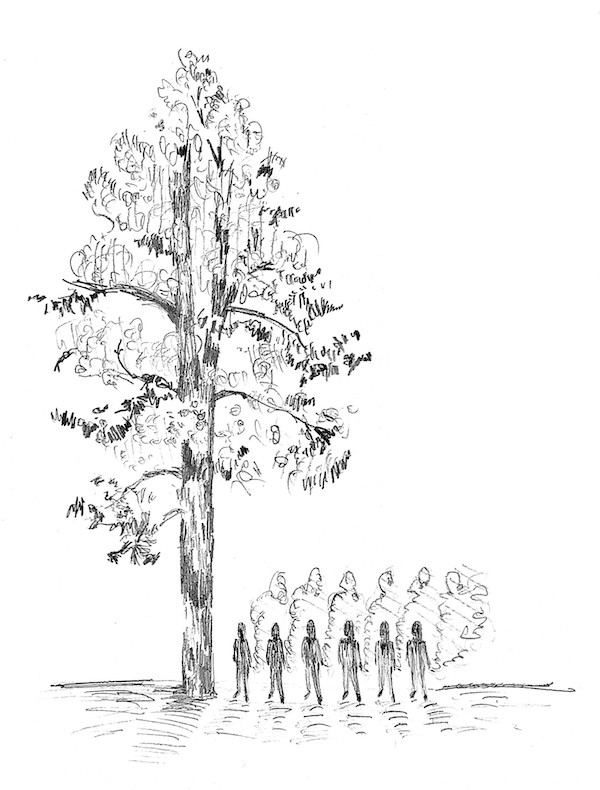
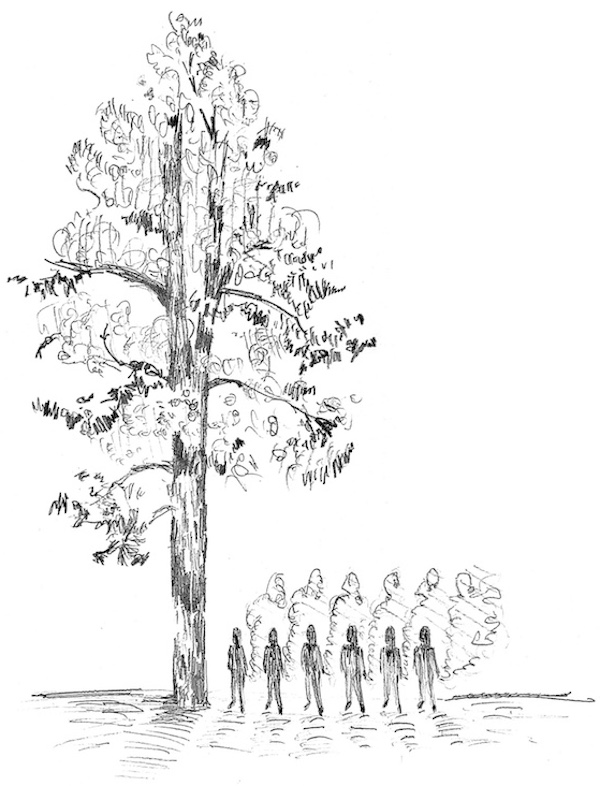
enlarging img's

Changed region(s): [[0.0, 0.0, 0.99, 0.9771]]

diff --git a/styles.css b/styles.css
@@ -73,7 +73,7 @@ a:visited {
 }
 
 img {
-  max-width: 250px;
+  max-width: 350px;
 }
 
 
